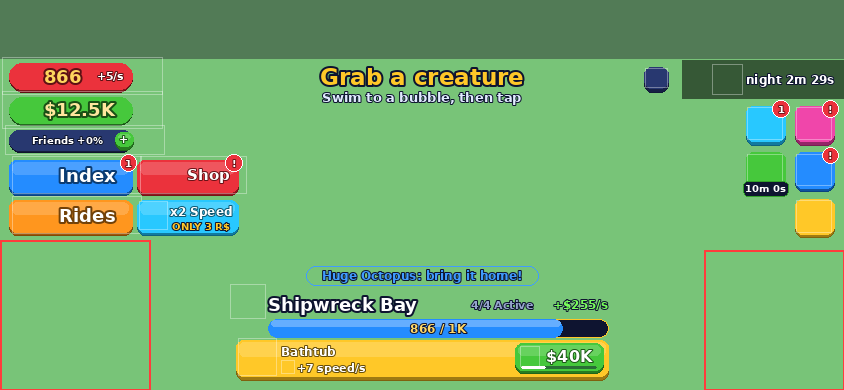
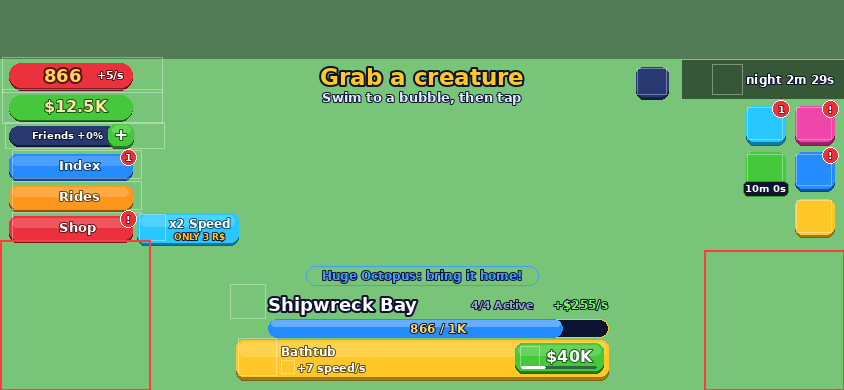
Phone HUD: Shop under Rides; edge-to-edge cutscene bars; /srctest tester
- Shop joins Index and Rides in one left column (shorter buttons so all
  three clear the thumbstick), the store promo sits beside it
- Letterbox bars, flashes and jaws ignore the phone safe area, so they
  reach the screen edges past notches and rounded corners
- /srctest (NotTufferson / SickleEdge): a panel that plays every cutscene
  and effect locally with sample data

Claude-Session: https://claude.ai/code/session_016U2BGmH486bstMbB3DLGUL

Changed region(s): [[0.0, 0.1538, 0.3081, 0.6462], [0.7393, 0.1538, 0.8009, 0.2769]]

diff --git a/tools/preview/ui.py b/tools/preview/ui.py
@@ -62,7 +62,7 @@ task = {{
 """
     for m in ("Config", "Build", "Layout"):
         s += module(m, "shared", "mod:")
-    for m in ("UI", "Sounds", "Fx", "Notify", "Guide", "Travel", "Prompts", "HUDMobile", "HUDDesktop", "HUD", "Rewards", "Shop", "Index", "Tank", "Sell", "Hub", "PlayGifts", "RaidSpin", "Countdown"):
+    for m in ("UI", "Sounds", "Fx", "Notify", "Guide", "Travel", "Prompts", "HUDMobile", "HUDDesktop", "HUD", "Rewards", "Shop", "Index", "Tank", "Sell", "Hub", "PlayGifts", "RaidSpin", "Countdown", "Cine", "Tester"):
         s += module(m, "client", "cmod:")
     s += """
 local sig = function() return { Connect = function() end } end
@@ -460,6 +460,7 @@ SAMPLE.questsReset = 5 * 3600 + 120
 """
 MENU_SCENES = {
     "index": 'require("cmod:Shop").start()\nrequire("cmod:Index").open()',
+    "tester": 'require("cmod:Tester").open()',
     "rides": 'require("cmod:Shop").start()\nrequire("cmod:Shop").openRides()',
     "store": 'require("cmod:Shop").start()\nrequire("cmod:Shop").openStore()',
     "tank": 'require("cmod:Tank").start()\nrequire("cmod:Tank").open()',

diff --git a/README.md b/README.md
@@ -76,7 +76,7 @@ Rojo project. Untested in Studio so far.
 - Moments (`Moments.luau`, built from the `Fx.luau` toolkit): grab pops by rarity, catches flying into the
   tank before the haul pays, the escape snap, close calls, bonk hits, a new best lit up over your dock.
   Short skippable cutscenes (`Cine.luau`, land only) for a new ride, a Mythic reaching your tank, evolving
-  and the Megalodon breaching.
+  and the Megalodon breaching. Developers can try them all with `/srctest` (`Tester.luau`).
 
 ## Robux store
 The store (`Shop.openStore()` in `src/client/Shop.luau`) opens from the red Shop button on the HUD and from

diff --git a/PLAN.md b/PLAN.md
@@ -133,5 +133,7 @@ Make it back to the sand for a big payout.**
 - Product id for the **Small Cash Pack** (MoneyPack1): the id sent was the Cash Pack's
 - Zone icons for the deep and candy biomes
 - Test the boss with `/boss` (and the whole event with `/event`) on a live server
+- Test every cutscene and effect with `/srctest` (NotTufferson / SickleEdge only): a panel of buttons,
+  only on your screen. Stand on land for the cutscenes; at sea you see their in-place versions
 - Sound ids: thunder, chest open, boss roar
 - Badge ids if you want badges
